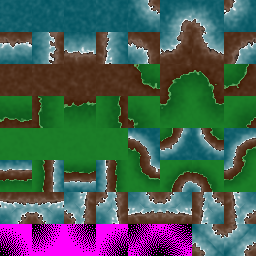
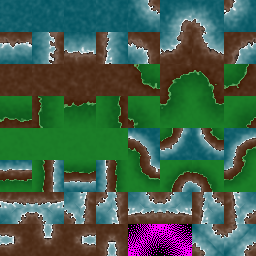
fix bug 3
bug 3 was for water surrounded by exactly 3 pieces of dirt. there were no sprites. added sprites (made by combining corner sprites)

Changed region(s): [[0.0, 0.875, 0.5, 1.0]]

diff --git a/tiles.js b/tiles.js
@@ -49,18 +49,20 @@ function getTile(x, y, width, height) {
 	// }
 
 	// dirt on 3 sides
+	// start bug fix 3
 	if(dirt_above && dirt_right && dirt_below) {
-		// return [4,1];
+		return [0,7];
 	}
 	if(dirt_right && dirt_below && dirt_left) {
-		// return [5,1];
+		return [1,7];
 	}
 	if(dirt_below && dirt_left && dirt_above) {
-		// return [6,1];
+		return [2,7];
 	}
 	if(dirt_left && dirt_above && dirt_right) {
-		// return [7,1];
+		return [3,7];
 	}
+	// end bug fix 3
 
 	// dirt on 2 sides
 	if(dirt_above && dirt_right) {
@@ -190,9 +192,11 @@ function drawTileGrid(width, height) {
 /*
 test condition maps:
 
+bugs 1, 2:
[1 lines of base64/hex data omitted]
 drawTileGrid(100,60)
 
+bug 3:
[1 lines of base64/hex data omitted]
 drawTileGrid(100,60)
 */
